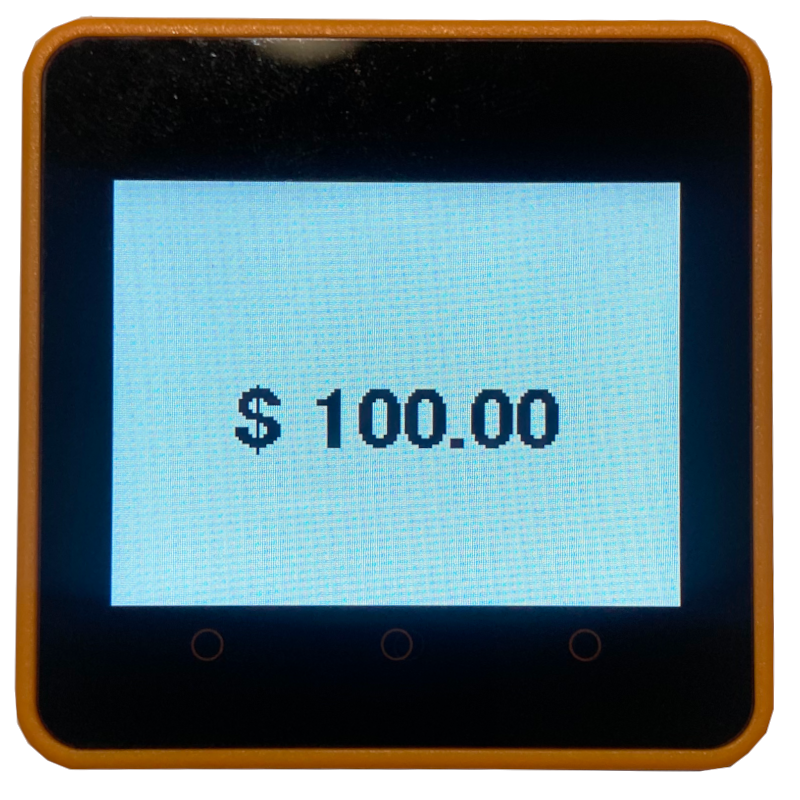
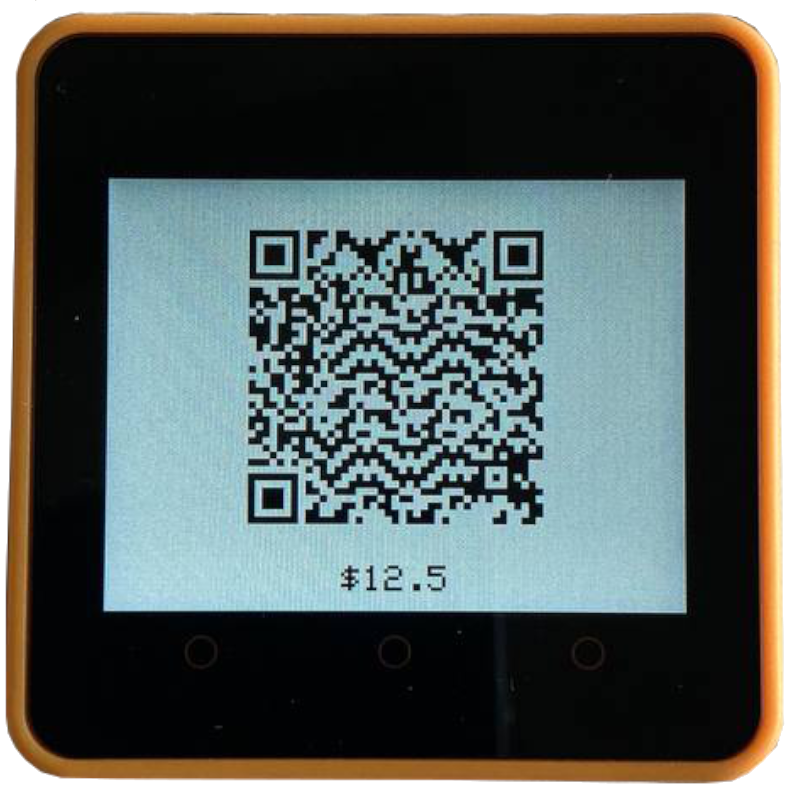
CHANGE: QRCode with BLE name & challenge

diff --git a/ui_render.h b/ui_render.h
@@ -2,6 +2,9 @@
 
 #include <M5Core2.h>
 
+extern String bleName;
+extern String challenge;
+
 /* Draw centered text */
 inline void showText(const String& text, uint8_t size = 1, uint16_t textColor = TFT_BLACK) {
   M5.Lcd.fillScreen(WHITE);
@@ -17,4 +20,33 @@ inline void showText(const String& text, uint8_t size = 1, uint16_t textColor = 
 
   M5.Lcd.setCursor(x, y);
   M5.Lcd.print(text);
+}
+
+inline void showOrderAmount(String label, int qrSize = 200) {
+  M5.Lcd.fillScreen(WHITE);
+
+  int screenWidth = M5.Lcd.width();
+  
+  // Center X positions
+  int qrX = (screenWidth - qrSize) / 2;
+  int qrY = 10;
+
+  // Draw QR code centered
+  String qrData = String(bleName) + "/" + String(challenge);
+  M5.Lcd.qrcode(qrData.c_str(), qrX, qrY, qrSize);
+
+  // Set up text
+  M5.Lcd.setTextColor(BLACK, WHITE);
+  M5.Lcd.setFreeFont(NULL);
+  M5.Lcd.setTextSize(2);
+
+  // Calculate text width manually (approx: each character ~12 pixels wide at textSize(2))
+  int textWidth = label.length() * 12; 
+
+  // Draw text centered horizontally below QR
+  int textX = (screenWidth - textWidth) / 2;
+  int textY = qrY + qrSize + 5; // 5 pixels below QR
+
+  M5.Lcd.setCursor(textX, textY);
+  M5.Lcd.print(label);  
 }

diff --git a/ble_server.h b/ble_server.h
@@ -4,6 +4,8 @@
 #include <BLEUtils.h>
 #include <BLEServer.h>
 
+extern String bleName;
+
 extern BLECharacteristic* pPayerDetails;
 extern BLECharacteristic* pSignedPaymentRequest;
 extern BLECharacteristic* pSignedECheck;
@@ -16,10 +18,10 @@ extern BLECharacteristic* pReadBLEMessage;
 #define UUID_WRITE_SIGNED_E_CHECK "a0dd609f-fbda-4996-ab9c-6d53fe763945"
 #define UUID_READ_BLE_MESSAGE "a20d3f9f-1d6e-4936-80ab-cd7cb8c8b550"
 
-inline void startBLEServer(String bleName, BLECharacteristicCallbacks* callbackPayerDetails, BLECharacteristicCallbacks* callbackSignedPaymentRequest, 
+inline void startBLEServer(BLECharacteristicCallbacks* callbackPayerDetails, BLECharacteristicCallbacks* callbackSignedPaymentRequest, 
                             BLECharacteristicCallbacks* callbacSignedECheck, BLECharacteristicCallbacks* callbacMessageRead) {
     
-    BLEDevice::init(bleName.c_str());
+    BLEDevice::init(std::string(bleName.c_str()));
 
     BLEServer* pServer = BLEDevice::createServer();
     pServer->setCallbacks(new BLEServerCallbacks());

diff --git a/wifi_server.h b/wifi_server.h
@@ -10,7 +10,7 @@ String wifiPass;
 bool shouldConnect;
 bool isConnecting;
 bool hasConnected;
-extern const char* apName;
+extern String apName;
 String localIp;
 unsigned long connectStartTime;
 
@@ -33,7 +33,7 @@ inline void startWifiAndServer() {
         SSID: <input name='ssid'><br>
         Password: <input name='pass' type='password'><br>
         <h2>Processor Details/Registration</h2>
-        URL: <input name='processorUrl' value='https://api.libralink.network/'><br>
+        URL: <input name='processorUrl' value='https://sandbox-api.libralink.network'><br>
         Challenge Id: <input name='processorChallengeId' value='decbe98a-1abe-4367-a6d4-e14208a5e39a'><br>
         Challenge: <input name='processorChallenge' value='FkdS44'><br>
         <h2>Security</h2>

diff --git a/handler_share_payer_details.h b/handler_share_payer_details.h
@@ -13,6 +13,7 @@
 #include "file_manager.h"
 #include "ui_render.h"
 #include "encryption_utils.h"
+#include "random_id.h"
 
 // External variables (provided by your main sketch)
 extern String currentOrderId;
@@ -90,7 +91,8 @@ class MyCallbackPayerDetails : public BLECharacteristicCallbacks {
               #endif
 
               currentBleMessage = base64Data;
-              showText("$ " + String(currentOrderAmount, 2), 2, TFT_MAROON);
+              showOrderAmount("$ " + String(currentOrderAmount, 2));
+
           } else {
               showText("Failed to decode SharePayerDetails", 1);
           }

diff --git a/random_id.h b/random_id.h
@@ -1,13 +1,12 @@
 #pragma once
 #include <Arduino.h>
 
-inline const char* generateRandomId() {
-    static char id[7];
+inline String generateRandomString() {
     const char charset[] = "ABCDEFGHIJKLMNOPQRSTUVWXYZabcdefghijklmnopqrstuvwxyz0123456789";
     size_t charsetSize = sizeof(charset) - 1;
+    String id = "";
     for (int i = 0; i < 6; i++) {
-        id[i] = charset[random(charsetSize)];
+        id += charset[random(charsetSize)];
     }
-    id[6] = '\0';
     return id;
 }

diff --git a/handler_signed_payment_request.h b/handler_signed_payment_request.h
@@ -109,7 +109,7 @@ class MySignedPaymentRequestCallbacks : public BLECharacteristicCallbacks {
       }            
 
       /* ... */
-      showText("$ " + String(amountBuf, 2), 2, TFT_DARKGREEN);
+      showOrderAmount("$ " + String(amountBuf, 2));
       free(decodedData);                 
   }
   void onRead(BLECharacteristic* pChar) override {}
